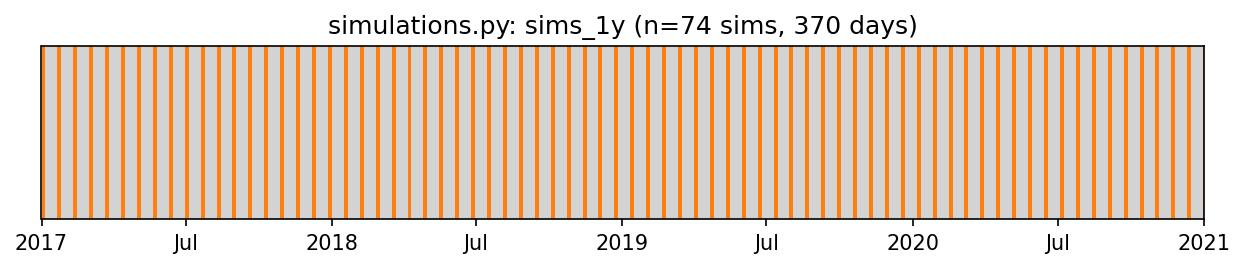
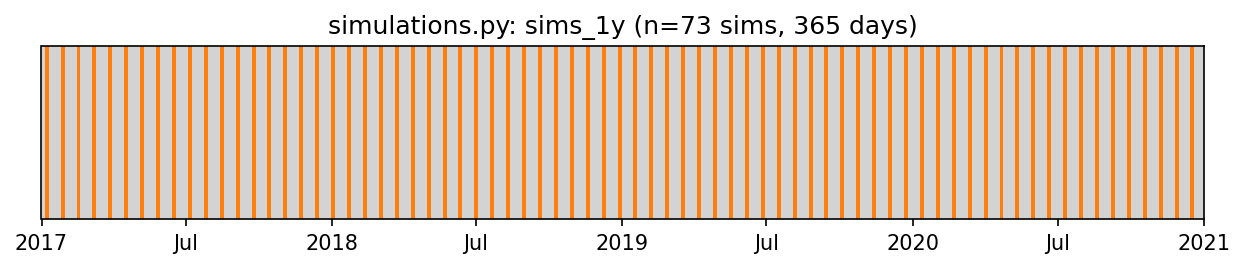
Add full and half year code for alps, baltics, and pyrnees domains

Changed region(s): [[0.0305, 0.1487, 0.9767, 0.8327], [0.641, 0.0595, 0.7325, 0.119], [0.5494, 0.0595, 0.6104, 0.119]]

diff --git a/domains/alps/simulations.py b/domains/alps/simulations.py
@@ -2,6 +2,7 @@
 
 import datetime
 from wrf_massive.base import Simulation
+from wrf_massive.sim_gen import get_spaced_sims
 
 # Settings are inserted into namelist.tmpl.input by matching names, e.g.
 # `physics__bl_pbl_physics` fills `{{ physics__bl_pbl_physics }}`.
@@ -21,26 +22,20 @@ mynn25 = {
 def get_1y_sims(net_sim_days: int = 5, step: int = 4, offset: int = 0) -> list[Simulation]:
     global_begin = datetime.datetime(2017, 1, 1)
     global_end = datetime.datetime(2021, 1, 1)
-    global_days = (global_end - global_begin).days
 
-    sims = []
-    for i in range(offset * step, global_days, net_sim_days * step):
-        begin = global_begin + datetime.timedelta(days=i)
-        end = begin + datetime.timedelta(days=net_sim_days)
-        sim = Simulation(
-            begin=begin,
-            end=end,
-            warmup_h=12,
-            sim_dir=f"sim_{begin.strftime('%Y-%m-%d')}",
-            settings=mynn25,
-        )
-        sims.append(sim)
-    return sims
+    return get_spaced_sims(
+        global_begin,
+        global_end,
+        settings=mynn25,
+        net_sim_days=net_sim_days,
+        step=step,
+        offset=offset,
+    )
 
 
-sims_1y = get_1y_sims(step=4)
+# nl: offset=0 (indirectly from old sims); alps: offset=1; baltics: offset=2; pyrenees: offset=3;
+sims_1y = get_1y_sims(offset=1)
 sims_1y_half = sims_1y[::2]
-
 
 # Test simulation with 1 day of usable data. The 12 h warmup is added before `begin` automatically.
 sim_test = Simulation(

diff --git a/domains/baltics/simulations.py b/domains/baltics/simulations.py
@@ -1,6 +1,8 @@
 """Simulations of this workspace. Create their directories with `wrf-massive init-sims simulations.py <variable>`."""
 
-from wrf_massive.base import  Simulation
+import datetime
+from wrf_massive.base import Simulation
+from wrf_massive.sim_gen import get_spaced_sims
 
 # Settings are inserted into namelist.tmpl.input by matching names, e.g.
 # `physics__bl_pbl_physics` fills `{{ physics__bl_pbl_physics }}`.
@@ -15,6 +17,24 @@ mynn25 = {
     "physics__bl_mynn_edmf_tke": "0",
     "physics__sf_urban_physics": "0",  # no urban model
 }
+
+
+def get_1y_sims(net_sim_days: int = 5, step: int = 4, offset: int = 0) -> list[Simulation]:
+    global_begin = datetime.datetime(2017, 1, 1)
+    global_end = datetime.datetime(2021, 1, 1)
+
+    return get_spaced_sims(
+        global_begin,
+        global_end,
+        settings=mynn25,
+        net_sim_days=net_sim_days,
+        step=step,
+        offset=offset,
+    )
+
+# nl: offset=0 (indirectly from old sims); alps: offset=1; baltics: offset=2; pyrenees: offset=3; 
+sims_1y = get_1y_sims(offset=2)  
+sims_1y_half = sims_1y[::2]
 
 # Test simulation with 1 day of usable data. The 12 h warmup is added before `begin` automatically.
 sim_test = Simulation(

diff --git a/domains/pyrenees/simulations.py b/domains/pyrenees/simulations.py
@@ -1,6 +1,8 @@
 """Simulations of this workspace. Create their directories with `wrf-massive init-sims simulations.py <variable>`."""
 
-from wrf_massive.base import  Simulation
+import datetime
+from wrf_massive.base import Simulation
+from wrf_massive.sim_gen import get_spaced_sims
 
 # Settings are inserted into namelist.tmpl.input by matching names, e.g.
 # `physics__bl_pbl_physics` fills `{{ physics__bl_pbl_physics }}`.
@@ -15,6 +17,24 @@ mynn25 = {
     "physics__bl_mynn_edmf_tke": "0",
     "physics__sf_urban_physics": "0",  # no urban model
 }
+
+
+def get_1y_sims(net_sim_days: int = 5, step: int = 4, offset: int = 0) -> list[Simulation]:
+    global_begin = datetime.datetime(2017, 1, 1)
+    global_end = datetime.datetime(2021, 1, 1)
+
+    return get_spaced_sims(
+        global_begin,
+        global_end,
+        settings=mynn25,
+        net_sim_days=net_sim_days,
+        step=step,
+        offset=offset,
+    )
+
+# nl: offset=0 (indirectly from old sims); alps: offset=1; baltics: offset=2; pyrenees: offset=3; 
+sims_1y = get_1y_sims(offset=3)  
+sims_1y_half = sims_1y[::2]
 
 # Test simulation with 1 day of usable data. The 12 h warmup is added before `begin` automatically.
 sim_test = Simulation(
